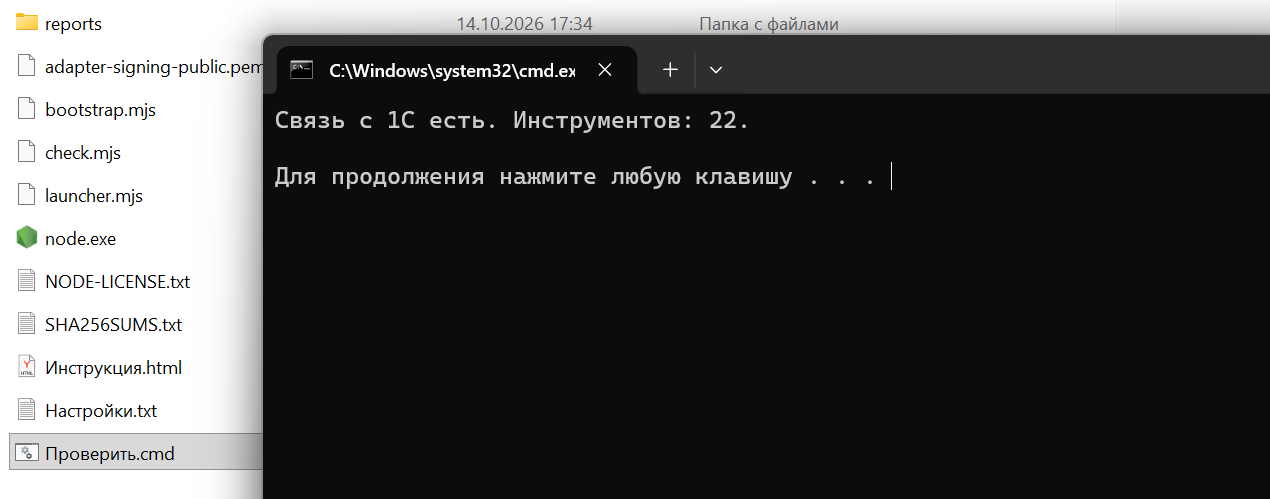
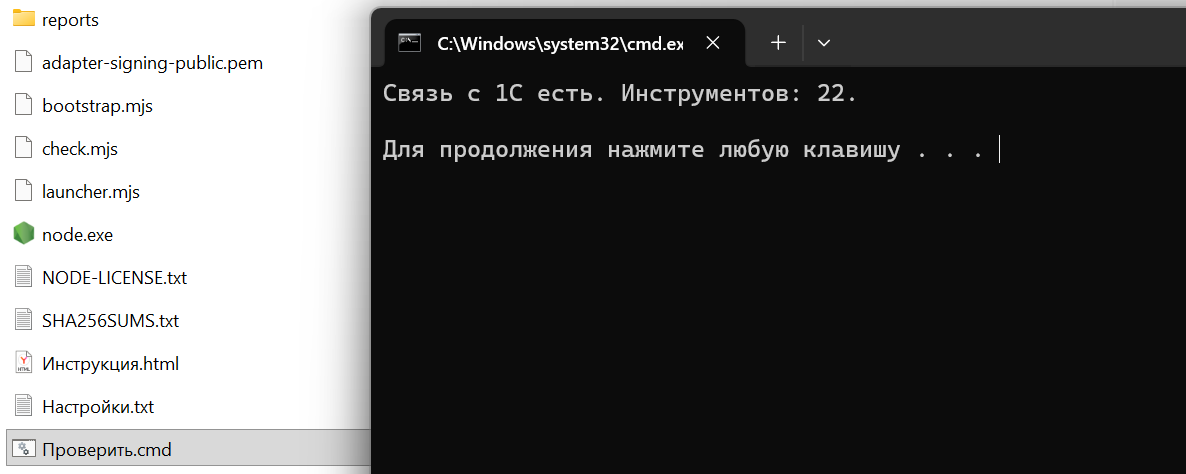
Update 3 files
- p-l/nastroyki/nastroyki-mcp/dlya-polzovatelya.md
   - p-l/nastroyki/nastroyki-mcp/dlya-polzovatelya.webp
 - p-l/nastroyki/nastroyki-mcp/dlya-polzovatelya-2.webp

diff --git a/p-l/nastroyki/nastroyki-mcp/dlya-polzovatelya.md b/p-l/nastroyki/nastroyki-mcp/dlya-polzovatelya.md
@@ -3,34 +3,39 @@ title: Для пользователя
 order: 2
 ---
 
-## 1\. Получите папку и доступ
+### 1\. Выберите папку для своего компьютера
 
-:::info
+Администратор даст вам ссылку на архив, адрес базы, логин, пароль и **личный токен**. Токен относится к конкретной базе. Если у вас две базы, попросите отдельный токен для каждой.
+
+[tabs]
+
+[tab:Для Windows]
+
+**Скачать папку MCP для Windows:** **\[здесь будет ссылка для Windows\]**.
+
+В архиве уже есть всё нужное, включая `node.exe` и файл проверки `Проверить.cmd`. Устанавливать Node.js отдельно не нужно.
+
+[/tab]
+
+[tab:Для macOS]
+
+**Скачать папку MCP для Mac:** **\[здесь будет ссылка для macOS\]**.
+
+Один архив подходит для Mac с **Apple Silicon и Intel**, если установлена **macOS 13.5 или новее**. Внутри уже есть Node.js и файл проверки `Проверить.command`; устанавливать Node.js отдельно не нужно.
+
+Распакуйте архив для своей системы в удобное постоянное место, например в **Документы**. После подключения к ИИ не переносите папку: программа будет запускать файлы по её текущему пути.
+
+[/tab]
+
+[/tabs]
+
+:::info:true Подробнее
 
 Эта папка работает с **программой на вашем компьютере, которая умеет запускать локальный MCP-сервер (`stdio`)**. Например, это может быть Claude Desktop, Claude Code, Cursor, VS Code с поддержкой MCP или Codex с локальным MCP-подключением. Нужна именно поддержка локальных MCP в выбранной программе. **Обычный чат в браузере или приложение на телефоне не запустят папку с вашего компьютера.** При этом сама модель ИИ может работать через интернет: локально запускается папка MCP.
 
 Инструкция подходит для **Windows и macOS**. Расширение 1С устанавливает администратор; скачивать его вместе с папкой не нужно.
 
 :::
-
-### 1\. Выберите папку для своего компьютера
-
-
-Администратор даст вам ссылку на архив, адрес базы, логин, пароль и **личный токен**. Токен относится к конкретной базе. Если у вас две базы, попросите отдельный токен для каждой.
-
-#### Windows
-
-**Скачать папку MCP для Windows:** **[здесь будет ссылка для Windows]**.
-
-В архиве уже есть всё нужное, включая `node.exe` и файл проверки `Проверить.cmd`. Устанавливать Node.js отдельно не нужно.
-
-#### macOS
-
-**Скачать папку MCP для Mac:** **[здесь будет ссылка для macOS]**.
-
-Один архив подходит для Mac с **Apple Silicon и Intel**, если установлена **macOS 13.5 или новее**. Внутри уже есть Node.js и файл проверки `Проверить.command`; устанавливать Node.js отдельно не нужно.
-
-Распакуйте архив для своей системы в удобное постоянное место, например в **Документы**. После подключения к ИИ не переносите папку: программа будет запускать файлы по её текущему пути.
 
 ### 2\. Заполните четыре строки
 
@@ -49,17 +54,17 @@ order: 2
 
 Дважды откройте в этой же папке **`Проверить.cmd` на Windows** или **`Проверить.command` на Mac**. При первом открытии macOS может попросить подтвердить запуск. Если появилось сообщение **«Связь с 1С есть»**, переходите дальше. Если появилась ошибка, отправьте администратору **текст ошибки**. Не отправляйте заполненный `Настройки.txt`: в нём находятся пароль и токен.
 
-![](./dlya-polzovatelya.webp){width=1270px height=499px}
+![](./dlya-polzovatelya.webp){width=1186px height=474px}
 
 ### 4\. Подключите папку к ИИ
 
 Откройте установленную программу с ИИ и покажите ей распакованную папку или сообщите полный путь к ней. Скопируйте **текст для своей системы**.
 
-#### Текст для ИИ на Windows
+#### Вставьте следующий текст:
 
 :::quote
 
-Помоги подключить эту папку P&L MCP к твоему приложению на Windows. База 1С и доступ уже записаны в файле Настройки.txt; не открывай и не показывай его содержимое в чате.
+Помоги подключить эту папку P&L MCP к твоему приложению. База 1С и доступ уже записаны в файле Настройки.txt; не открывай и не показывай его содержимое в чате.
 
 Проверь, поддерживает ли твоё приложение локальный MCP. Если да, добавь сервер с именем pnl-mcp: команда -- полный путь к node.exe в этой папке, аргумент -- полный путь к bootstrap.mjs в этой же папке. Сохрани остальные мои MCP-подключения. Если не можешь менять настройки сам, покажи мне простые шаги для этого приложения.
 
@@ -67,19 +72,7 @@ order: 2
 
 :::
 
-#### Текст для ИИ на Mac
-
-:::quote
-
-Помоги подключить эту папку P&L MCP к твоему приложению на macOS. База 1С и доступ уже записаны в файле Настройки.txt; не открывай и не показывай его содержимое в чате.
-
-Проверь, поддерживает ли твоё приложение локальный MCP. Если да, добавь сервер с именем pnl-mcp: команда — полный путь к файлу node в этой папке, аргумент — полный путь к bootstrap.mjs в этой же папке. Сохрани остальные мои MCP-подключения. Если не можешь менять настройки сам, покажи мне простые шаги для этого приложения.
-
-Затем переподключи MCP, вызови health и list_structures. Скажи, работает ли связь с моей базой и какие структуры отчётов доступны. Ничего не меняй в 1С.
-
-:::
-
-Если ИИ попросит заполнить настройки MCP вручную, укажите:
+:::info:true Если ИИ попросит заполнить настройки MCP вручную, укажите:
 
 | Поле | Что указать |
 |---|---|
@@ -87,6 +80,8 @@ order: 2
 | Имя | `pnl-mcp` |
 | Команда | Полный путь к `node.exe` на Windows или к файлу `node` на Mac **в распакованной папке** |
 | Аргумент | Полный путь к `bootstrap.mjs` **в той же папке** |
+
+:::
 
 Пароль и токен в настройках ИИ писать повторно не нужно: запускатель берёт их из `Настройки.txt`. После добавления MCP перезапустите программу с ИИ или переподключите MCP. Теперь можно спросить, например: **«Через P&L MCP покажи выручку и чистую прибыль по месяцам за этот год»**.
 
@@ -96,4 +91,8 @@ order: 2
 
 Если файл проверки показывает связь, а ИИ не видит MCP, проверьте поддержку **локального `stdio`**, пути к `node.exe` или `node` и к `bootstrap.mjs`, затем перезапустите ИИ. Если токен потерян или перестал работать, попросите администратора выпустить новый.
 
+:::note
+
 Заполненная папка содержит пароль и токен. Храните её у себя и не пересылайте другим людям; для другого пользователя нужен чистый архив и его личный токен.
+
+:::
